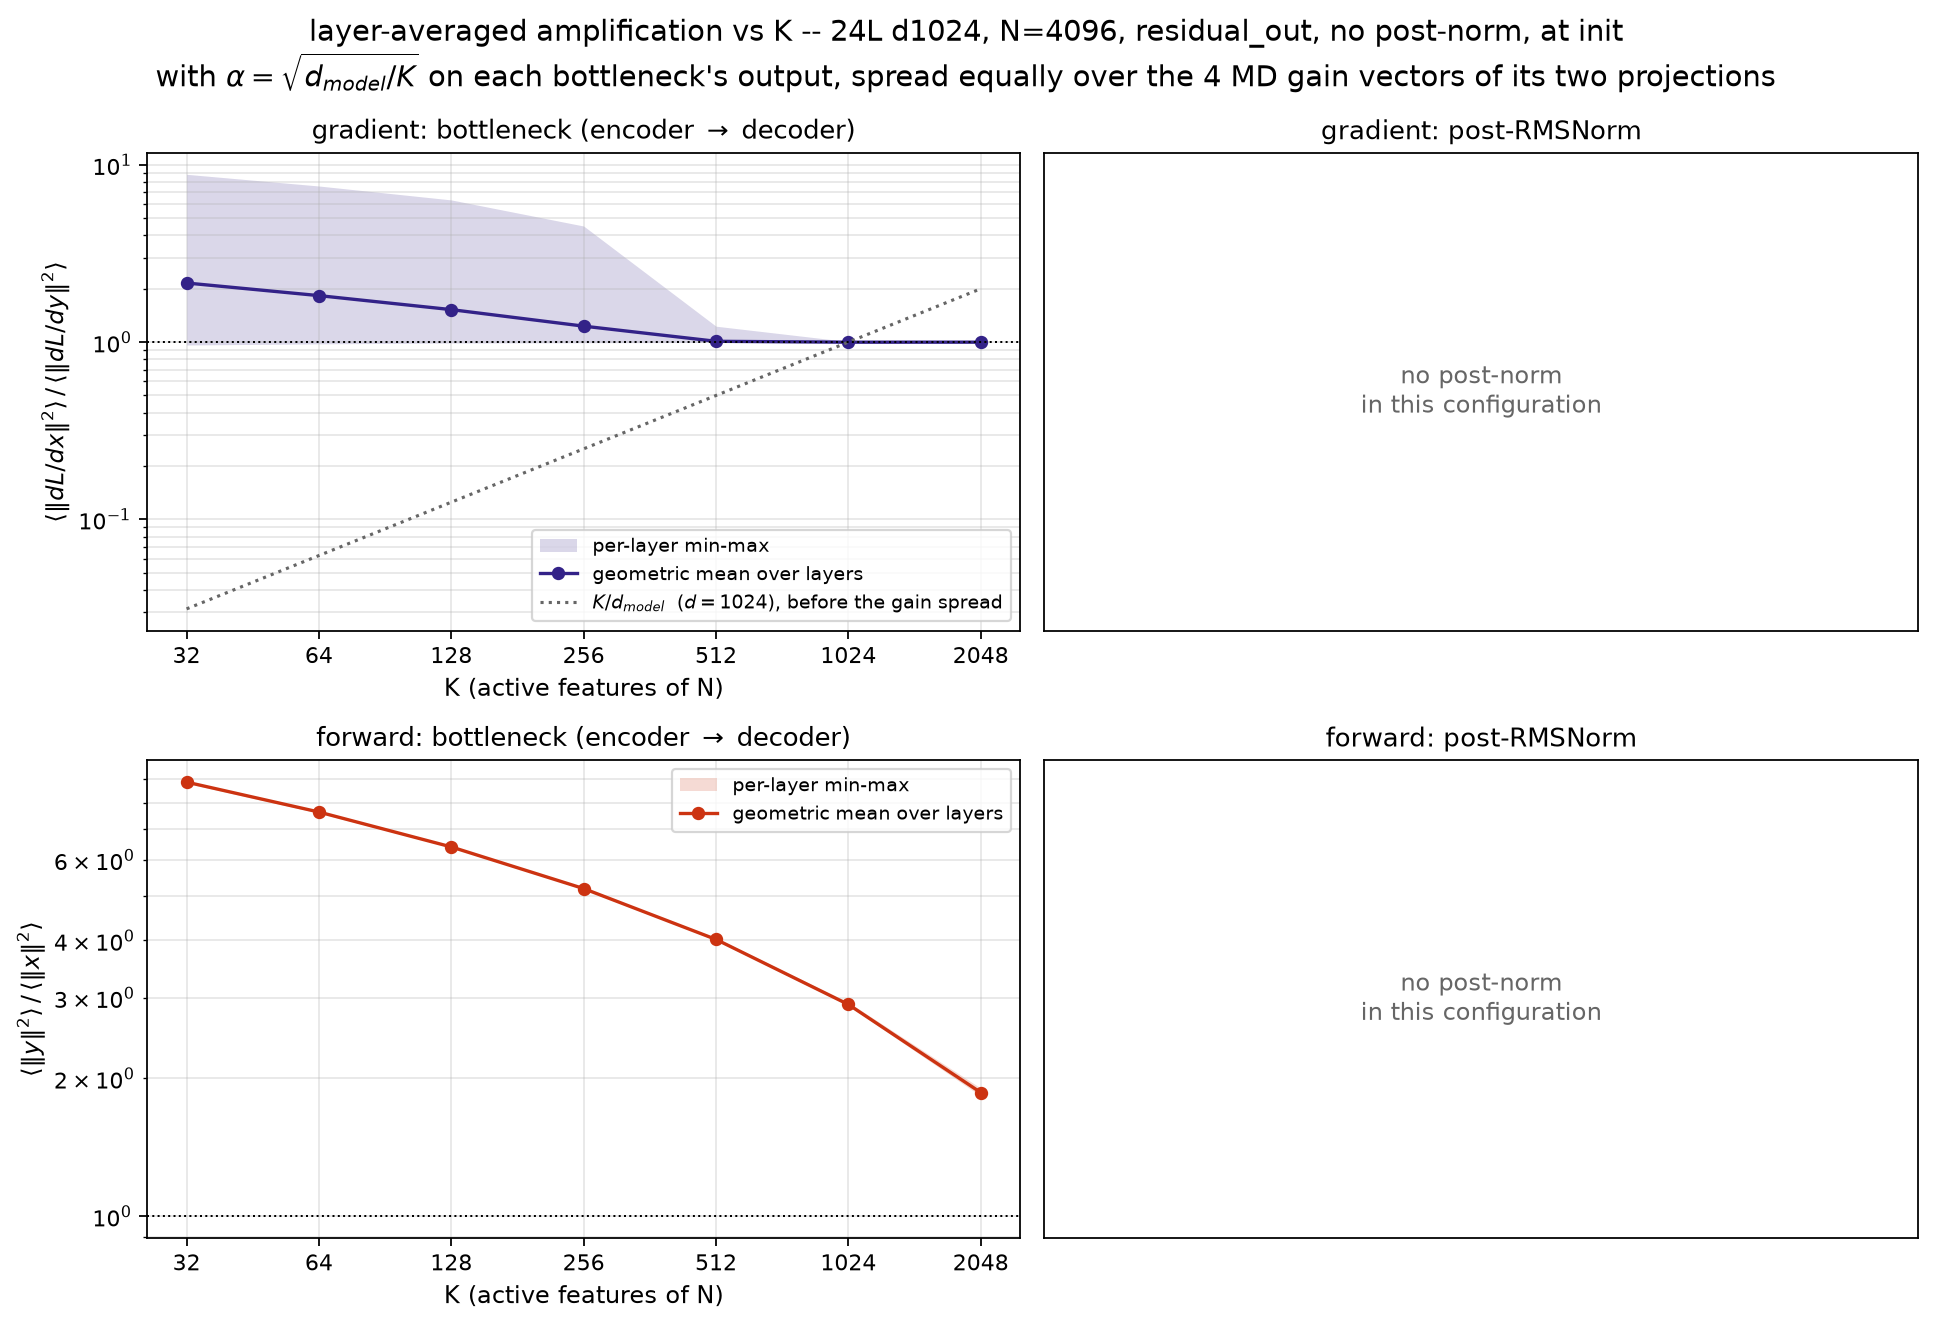
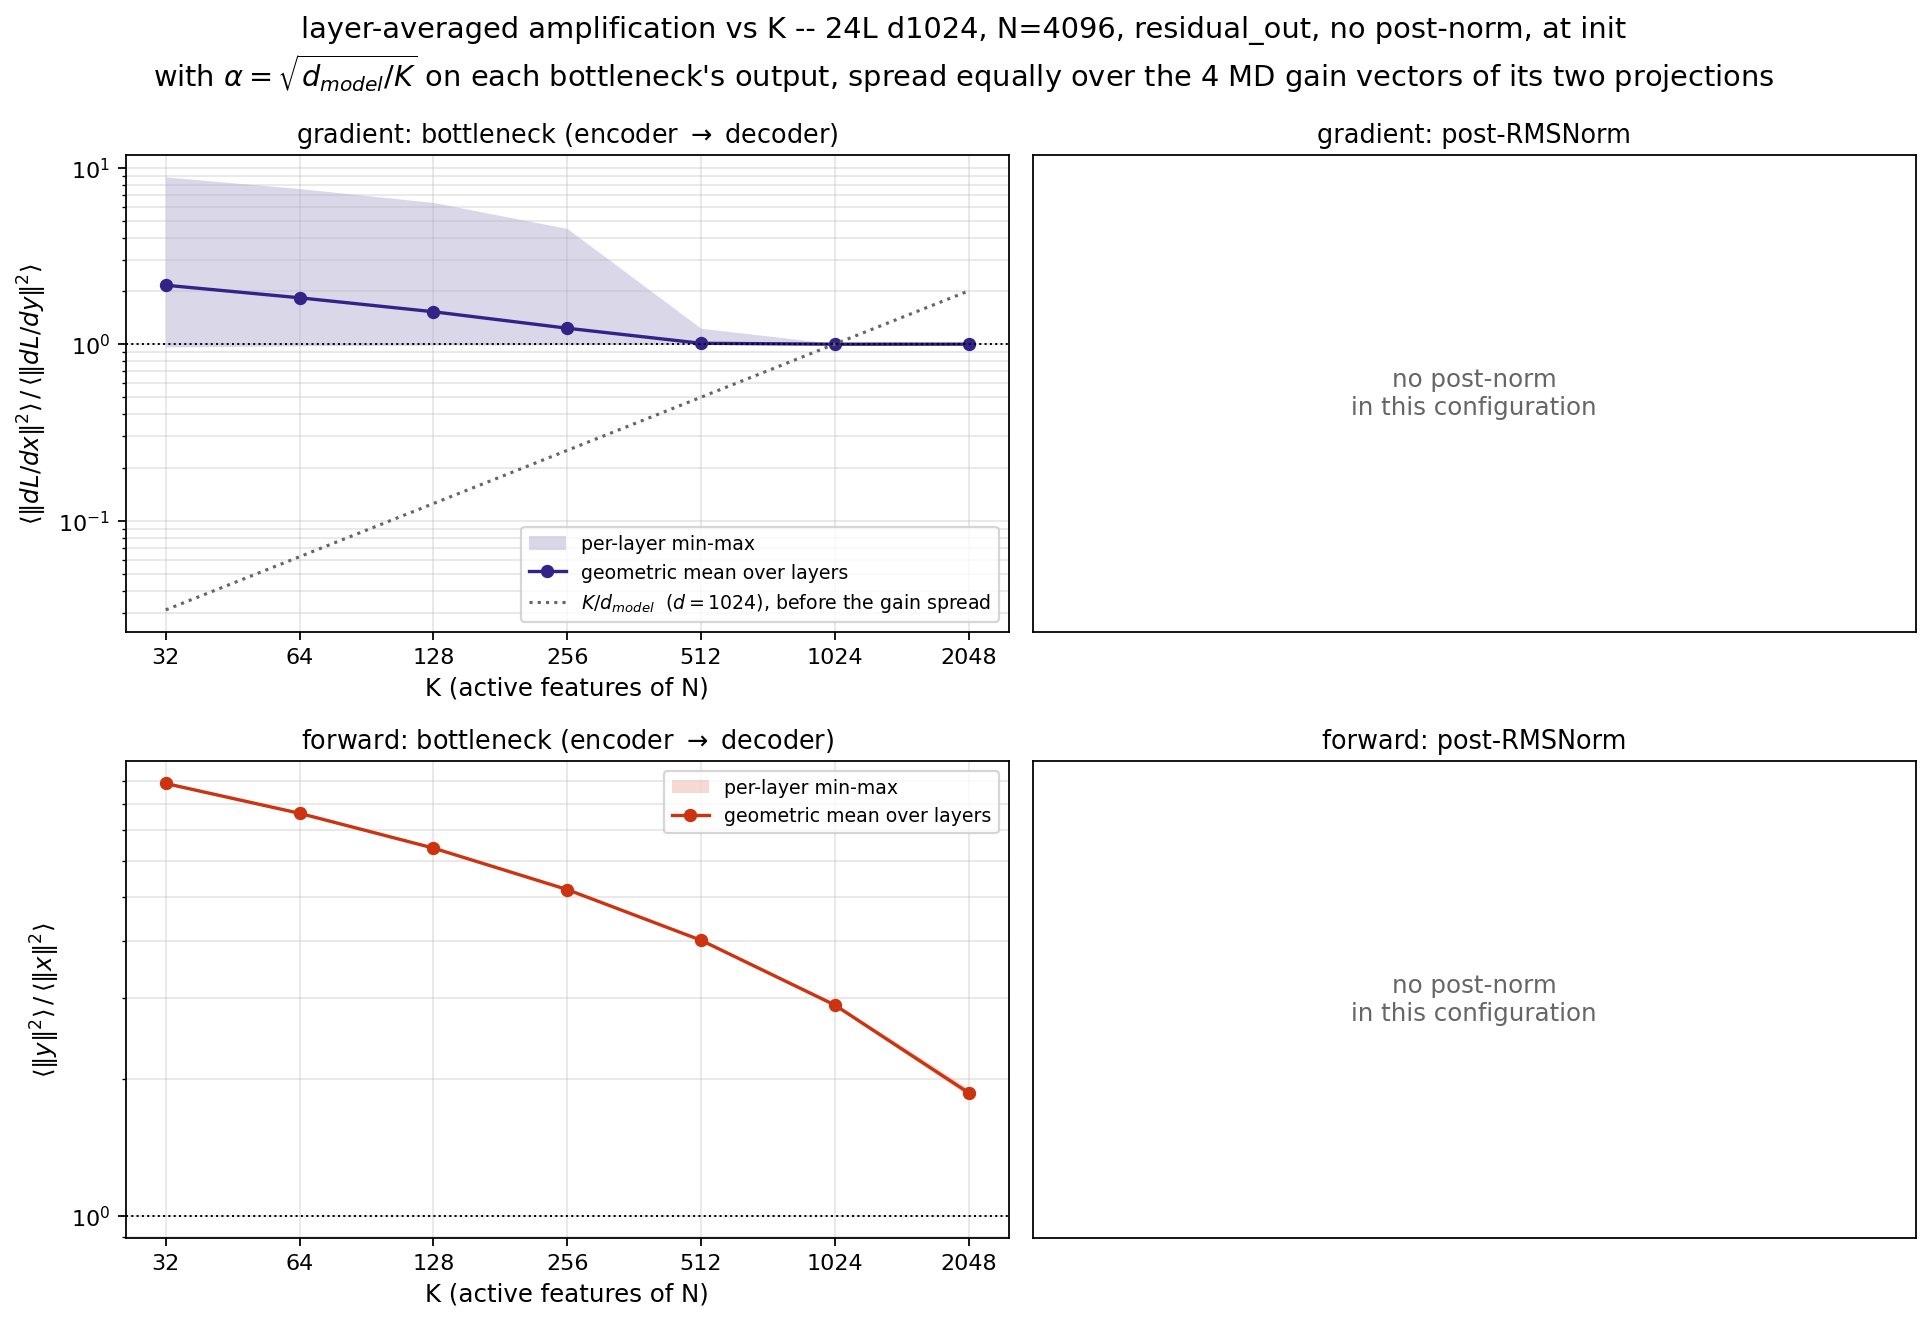
scripts: the sweep and per-layer titles name where alpha was placed
The deccol figure was labelled as the split placement, because the scripts
only checked that md_alpha was non-unit. They now read md_alpha_in and say
which gain vectors carry it. Drops the per-layer deccol figures the user does
not need; the sweep figure is regenerated with the right title.

diff --git a/scripts/plot_module_gain_sweep.py b/scripts/plot_module_gain_sweep.py
@@ -36,6 +36,27 @@ PANELS = [
 ]
 
 
+ALPHA_WHERE = {
+    "split": "spread equally over the 4 MD gain vectors of its two projections",
+    "decoder_col": "all of it in the decoder's per-column MD gains",
+    "decoder_row": "all of it in the decoder's per-row MD gains",
+    "encoder_col": "all of it in the encoder's per-column MD gains",
+    "encoder_row": "all of it in the encoder's per-row MD gains",
+}
+
+
+def alpha_phrase(runs):
+    """The alpha clause for a title, or "" when no run carries one."""
+    alphas = {round(d.get("md_alpha", 1.0), 6) for d in runs}
+    if alphas == {1.0}:
+        return ""
+    wheres = {str(d.get("md_alpha_in", "split")) for d in runs}
+    assert len(wheres) == 1, f"mixed md_alpha_in: {wheres}"
+    where = wheres.pop()
+    return ("\n" + r"with $\alpha=\sqrt{d_{model}/K}$ on each bottleneck's output, "
+            + ALPHA_WHERE.get(where, where))
+
+
 def main() -> None:
     out_path, paths = sys.argv[1], sys.argv[2:]
     runs = sorted((json.load(open(p)) for p in paths), key=lambda d: d["k"])
@@ -47,8 +68,7 @@ def main() -> None:
     assert len(d_models) == 1, f"mixed d_model: {d_models}"
     d_model = d_models.pop()
 
-    alphas = {round(d.get("md_alpha", 1.0), 6) for d in runs}
-    scaled = alphas != {1.0}
+    scaled = alpha_phrase(runs) != ""
     gammas = {str(d.get("pnorm_gamma", "1.0")) for d in runs}
     regamma = gammas != {"1.0"}
 
@@ -92,11 +112,7 @@ def main() -> None:
     norms = {bool(d.get("post_norm", True)) for d in runs}
     assert len(norms) == 1, f"mixed post_norm: {norms}"
     norm_label = "post-norm" if norms.pop() else "no post-norm"
-    tail = ""
-    if scaled:
-        tail += ("\n" + r"with $\alpha=\sqrt{d_{model}/K}$ on each bottleneck's "
-                 r"output, spread equally over the 4 MD gain vectors of its two "
-                 r"projections")
+    tail = alpha_phrase(runs)
     if regamma:
         tail += (r", and the post-norm's $\gamma$ at "
                  r"$1/\sqrt{G_{bwd}}$ per layer")

diff --git a/scripts/plot_module_gain_layers.py b/scripts/plot_module_gain_layers.py
@@ -37,6 +37,27 @@ NAME = {
 }
 
 
+ALPHA_WHERE = {
+    "split": "spread equally over the 4 MD gain vectors of its two projections",
+    "decoder_col": "all of it in the decoder's per-column MD gains",
+    "decoder_row": "all of it in the decoder's per-row MD gains",
+    "encoder_col": "all of it in the encoder's per-column MD gains",
+    "encoder_row": "all of it in the encoder's per-row MD gains",
+}
+
+
+def alpha_phrase(runs):
+    """The alpha clause for a title, or "" when no run carries one."""
+    alphas = {round(d.get("md_alpha", 1.0), 6) for d in runs}
+    if alphas == {1.0}:
+        return ""
+    wheres = {str(d.get("md_alpha_in", "split")) for d in runs}
+    assert len(wheres) == 1, f"mixed md_alpha_in: {wheres}"
+    where = wheres.pop()
+    return ("\n" + r"with $\alpha=\sqrt{d_{model}/K}$ on each bottleneck's output, "
+            + ALPHA_WHERE.get(where, where))
+
+
 def collect(paths, field):
     """``(ks, {layer: [gain per K]}, fwd_mean_per_K, meta)`` over sorted runs."""
     runs = sorted((json.load(open(p)) for p in paths), key=lambda d: d["k"])
@@ -62,15 +83,11 @@ def collect(paths, field):
 
 
 def title(meta, field):
-    alpha = round(meta.get("md_alpha", 1.0), 6) != 1.0
     head = (f"{NAME[field]} per layer -- {meta['n_layers']}L d{meta['d_model']}, "
             f"N={meta['n_features']}, {meta['placement']}, "
             + ("post-norm" if meta.get("post_norm", True) else "no post-norm")
             + ", at init")
-    if alpha:
-        head += ("\n" + r"with $\alpha=\sqrt{d_{model}/K}$ on each bottleneck's "
-                 r"output, spread over its 4 MD gain vectors")
-    return head
+    return head + alpha_phrase([meta])
 
 
 def style(ax, ks, field, legend=True, small=False):
